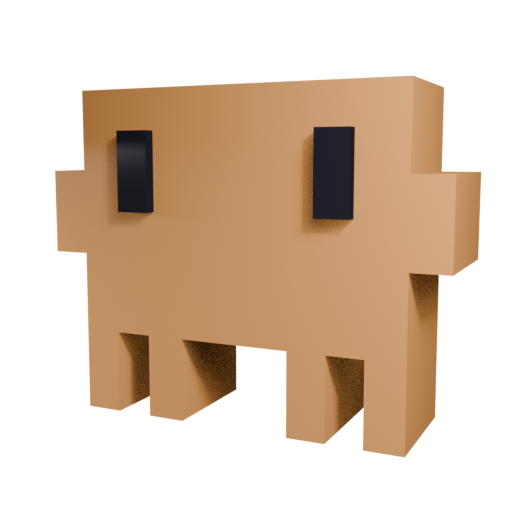
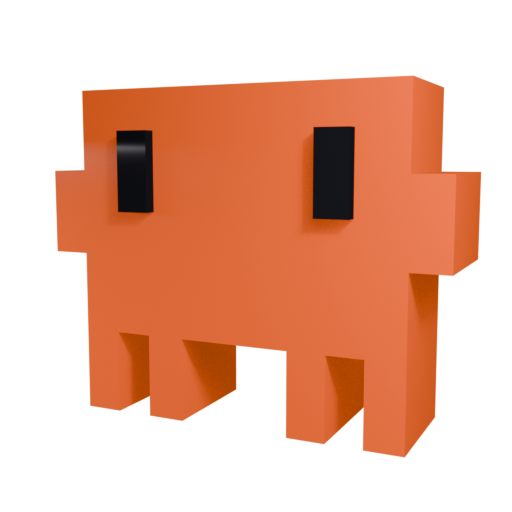
fix(transparency): tune Claude mascot to vibrant warm orange PBR and runtime material fix

diff --git a/client/src/features/transparency/components/transparency.ai-models.tsx b/client/src/features/transparency/components/transparency.ai-models.tsx
@@ -86,6 +86,45 @@ function ensureModelViewer(): Promise<void> {
   return modelViewerPromise;
 }
 
+function applyMascotMaterialFix(mv: HTMLElement): void {
+  type TexSlot = { setTexture?: (tex: unknown) => void };
+  type Pbr = {
+    setBaseColorFactor?: (factor: [number, number, number, number]) => void;
+    setMetallicFactor?: (factor: number) => void;
+    setRoughnessFactor?: (factor: number) => void;
+    baseColorTexture?: TexSlot;
+  };
+  type Mat = {
+    name?: string;
+    pbrMetallicRoughness?: Pbr;
+    setEmissiveFactor?: (factor: [number, number, number]) => void;
+  };
+
+  const model = (mv as HTMLElement & { model?: { materials?: Mat[] } }).model;
+  const materials = model?.materials;
+  if (!Array.isArray(materials)) return;
+
+  for (const mat of materials) {
+    const name = String(mat.name || '');
+    if (name === 'ClawdBody') {
+      const pbr = mat.pbrMetallicRoughness;
+      if (pbr) {
+        // Vibrant vivid cartoon warm orange
+        pbr.setBaseColorFactor?.([1.0, 0.32, 0.05, 1.0]);
+        pbr.setRoughnessFactor?.(0.22);
+        pbr.setMetallicFactor?.(0.0);
+      }
+      mat.setEmissiveFactor?.([0.38, 0.08, 0.01]);
+    } else if (name === 'ClawdEyes') {
+      const pbr = mat.pbrMetallicRoughness;
+      if (pbr) {
+        pbr.setBaseColorFactor?.([0.02, 0.02, 0.025, 1.0]);
+        pbr.setRoughnessFactor?.(0.08);
+      }
+    }
+  }
+}
+
 export function Generic3DViewer({ src, fallbackImg, alt }: { src: string; fallbackImg: string; alt: string }) {
   const containerRef = useRef<HTMLDivElement>(null);
   const [hasError, setHasError] = useState(false);
@@ -101,9 +140,9 @@ export function Generic3DViewer({ src, fallbackImg, alt }: { src: string; fallba
     mv.setAttribute('camera-controls', '');
     mv.setAttribute('auto-rotate', '');
     mv.setAttribute('rotation-per-second', '24deg');
-    mv.setAttribute('shadow-intensity', '1.2');
-    mv.setAttribute('shadow-softness', '0.6');
-    mv.setAttribute('exposure', '1.05');
+    mv.setAttribute('shadow-intensity', '1.0');
+    mv.setAttribute('shadow-softness', '0.5');
+    mv.setAttribute('exposure', '1.1');
     mv.setAttribute('environment-image', 'neutral');
     mv.setAttribute('interaction-prompt', 'none');
     mv.setAttribute('loading', 'eager');
@@ -117,12 +156,16 @@ export function Generic3DViewer({ src, fallbackImg, alt }: { src: string; fallba
     mv.style.setProperty('--poster-color', 'transparent');
 
     const onError = () => setHasError(true);
+    const onLoad = () => applyMascotMaterialFix(mv);
+
     mv.addEventListener('error', onError);
+    mv.addEventListener('load', onLoad);
     container.innerHTML = '';
     container.appendChild(mv);
 
     return () => {
       mv.removeEventListener('error', onError);
+      mv.removeEventListener('load', onLoad);
       mv.remove();
     };
   }, [src, alt]);

diff --git a/scripts/blender/generate_subscription_logos.py b/scripts/blender/generate_subscription_logos.py
@@ -266,9 +266,21 @@ def build_claude_scene():
     rim_obj.location = (-1.0, 3.0, 2.5)
     scene.collection.objects.link(rim_obj)
 
-    # Materials: Authentic Anthropic Vibrant Orange & Deep Pixel Black
-    mat_orange = create_pbr_material("ClawdBody", (0.98, 0.42, 0.12, 1.0), metallic=0.03, roughness=0.28)
-    mat_black = create_pbr_material("ClawdEyes", (0.02, 0.02, 0.03, 1.0), metallic=0.1, roughness=0.15)
+    # Materials: Vivid, rich, saturated Anthropic Orange with warm glowing emission
+    mat_orange = create_pbr_material(
+        "ClawdBody",
+        (1.0, 0.075, 0.002, 1.0),
+        metallic=0.0,
+        roughness=0.22,
+        emission=(1.0, 0.15, 0.01, 1.0),
+        emission_strength=0.35
+    )
+    mat_black = create_pbr_material(
+        "ClawdEyes",
+        (0.01, 0.01, 0.015, 1.0),
+        metallic=0.0,
+        roughness=0.08
+    )
 
     # 1. Body Mesh
     mesh_body = bpy.data.meshes.new("ClawdBodyMesh")
@@ -411,6 +423,7 @@ def main():
     print("\n[+] Building Claude Code Clawd Mascot 3D Character...")
     build_claude_scene()
     export_and_render("claude", output_dirs)
+    export_and_render("claude-mascot", output_dirs)
 
     # 3. Gemini Pro (Google)
     print("\n[+] Building Gemini Pro 3D Logo...")
